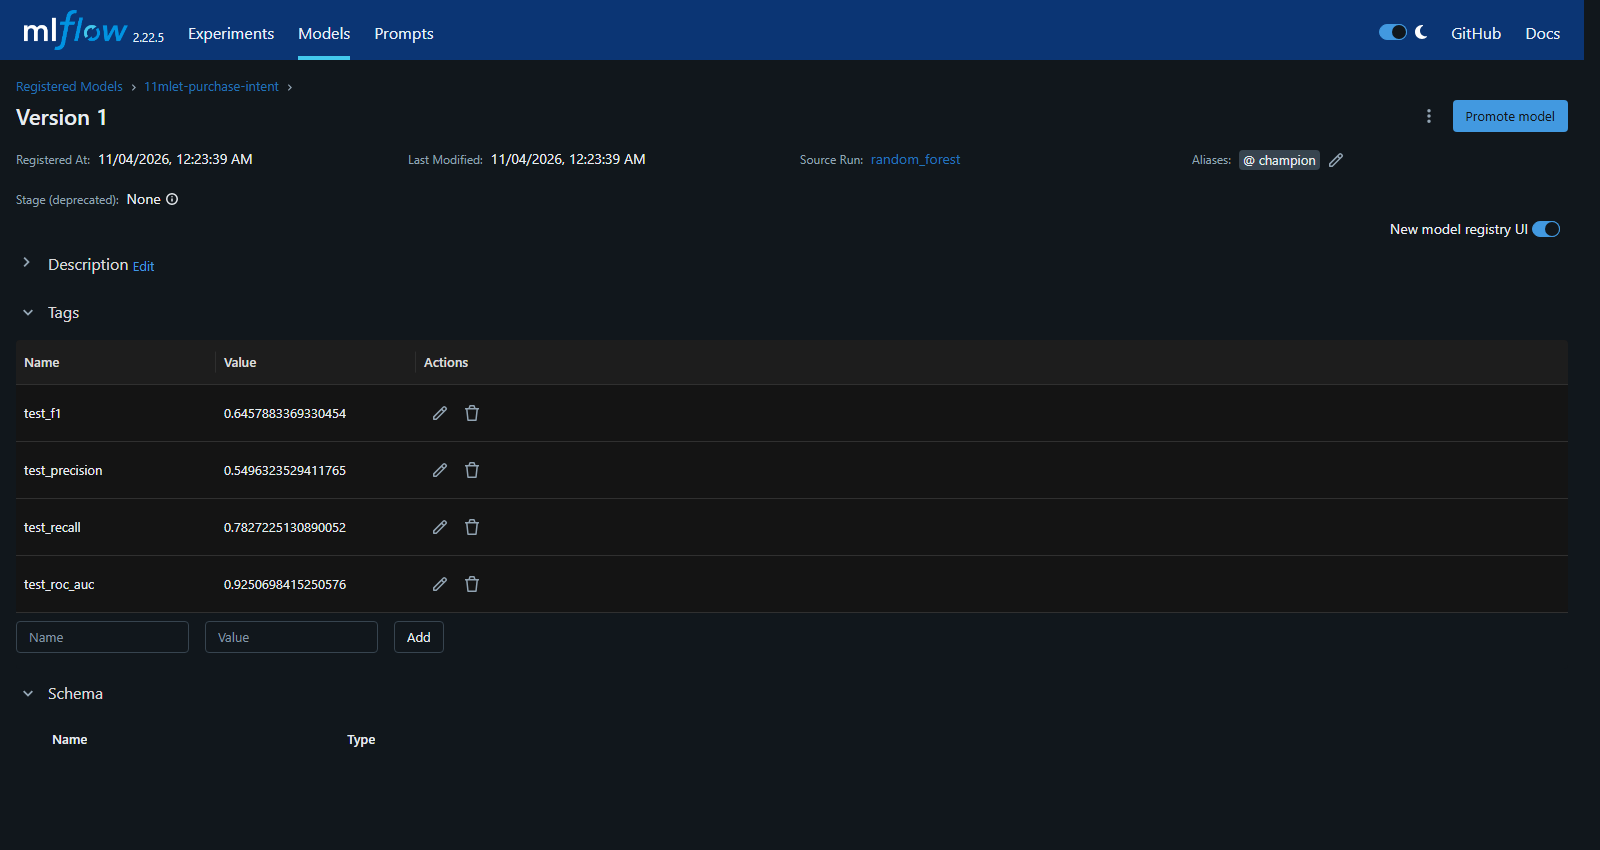
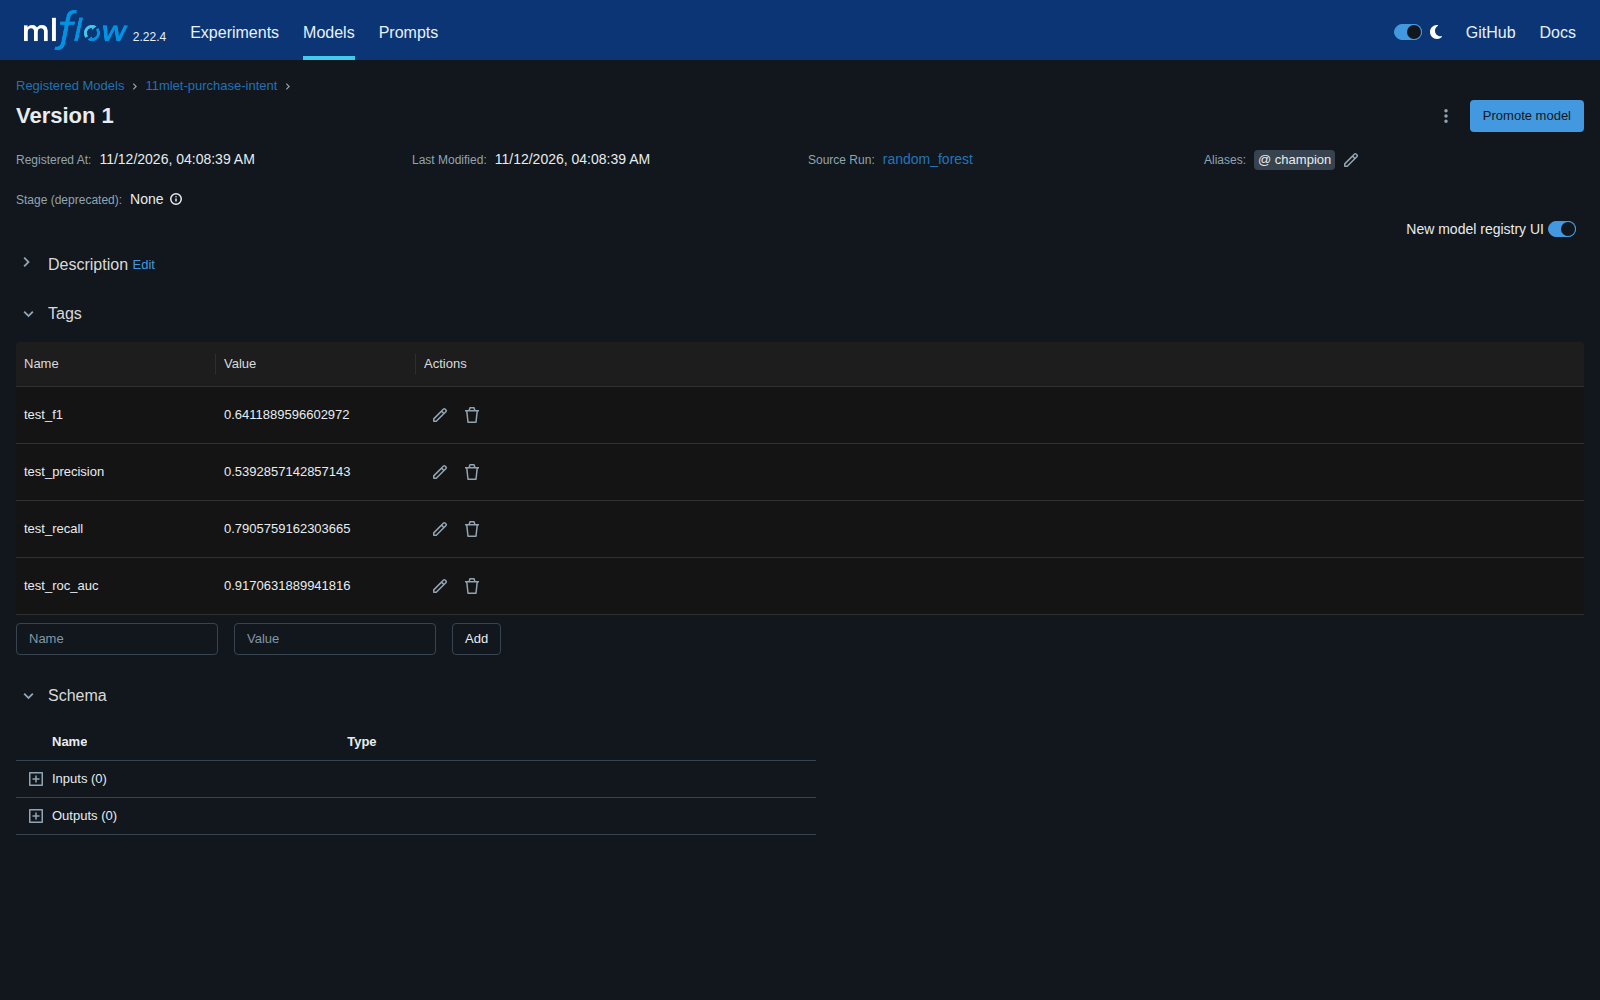
docs: quatro prints do mlflow da mesma execucao do ci e nota no readme
Imagens do artefato pipeline-output do run sobre o commit d898d4a, agora
com o Model Registry sem o aviso da interface por cima.

diff --git a/README.md b/README.md
@@ -111,6 +111,8 @@ reports/metrics.json  0.86294     0.64119  random_forest  0.53929      0.79058  
 
 ### Evidências (MLflow)
 
+Prints gerados pelo job `docker-pipeline` do CI (`scripts/capture_mlflow_screenshots.py`) logo após o pipeline, e publicados no artefato `pipeline-output`.
+
 Runs rastreados no experimento `11mlet-purchase-intent`:
 
 ![Runs no MLflow](docs/images/mlflow_experimentos.png)
